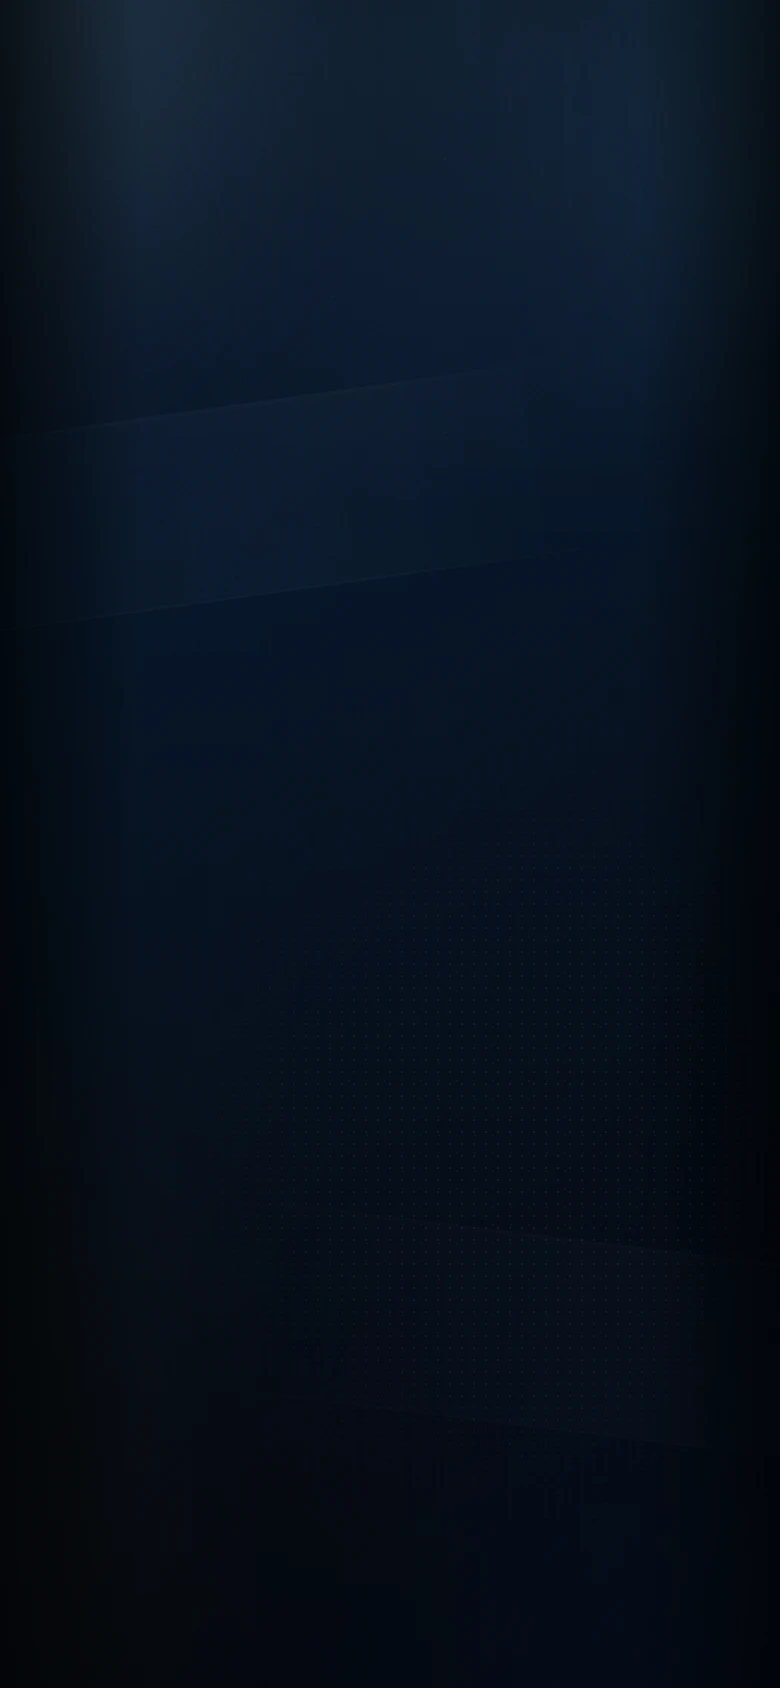
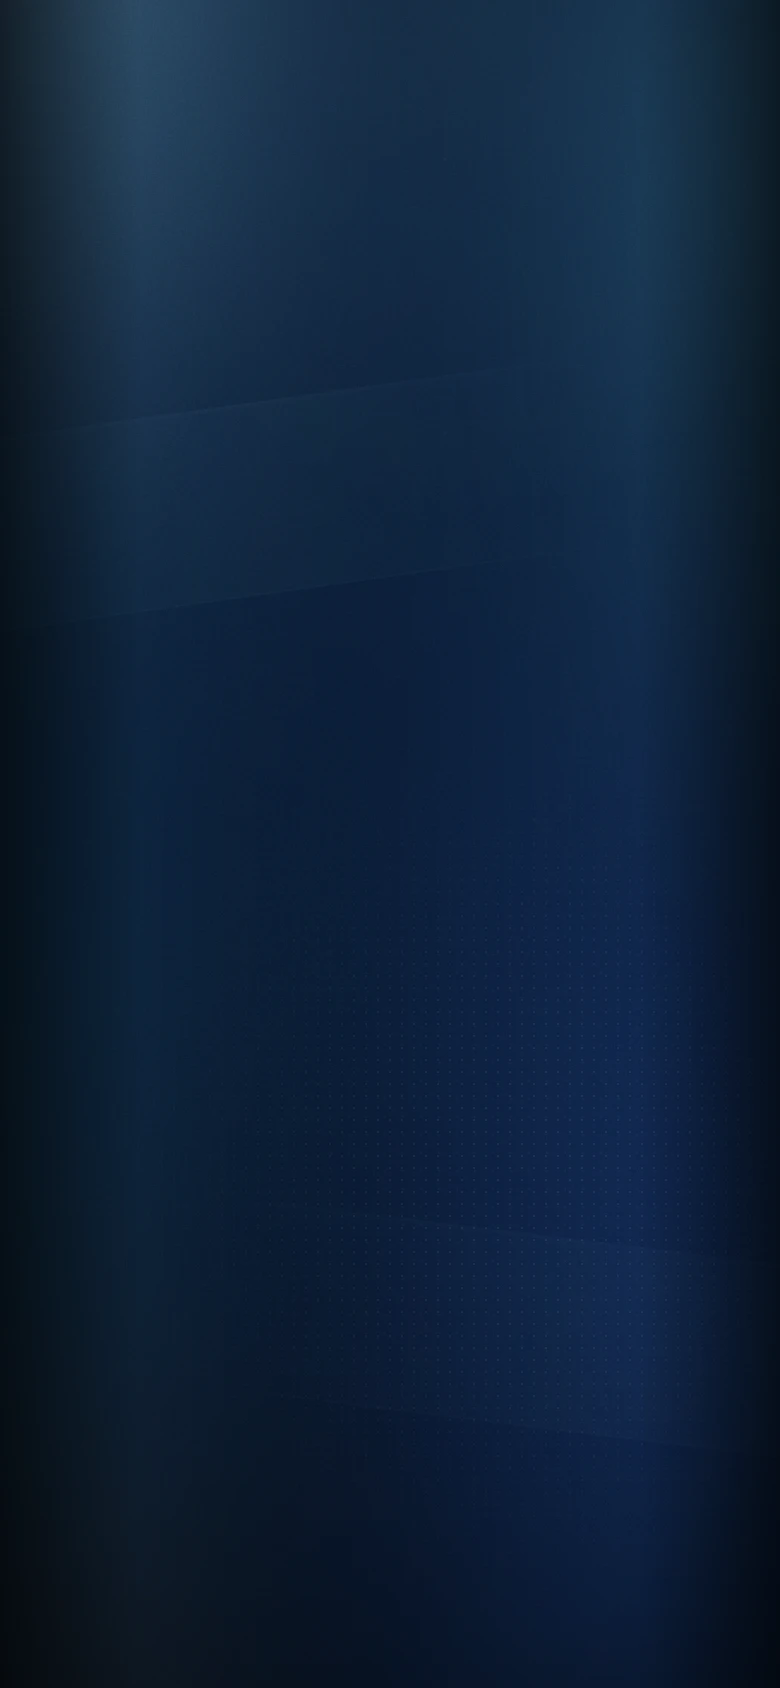
f

diff --git a/components/ui/AnimatedBackground.module.css b/components/ui/AnimatedBackground.module.css
@@ -17,13 +17,14 @@
   position: absolute;
   inset: -18%;
   background-image:
-    radial-gradient(34% 40% at 16% 4%, rgba(140, 216, 255, 0.4), transparent 70%),
-    radial-gradient(27% 33% at 89% 12%, rgba(93, 202, 245, 0.22), transparent 74%),
-    radial-gradient(38% 44% at 74% 94%, rgba(20, 58, 122, 0.26), transparent 76%),
-    radial-gradient(30% 38% at 15% 80%, rgba(245, 181, 71, 0.05), transparent 78%),
-    linear-gradient(158deg, #060a12 0%, #081426 34%, #040910 68%, #020408 100%);
+    radial-gradient(38% 46% at 16% 8%, rgba(140, 216, 255, 0.46), transparent 72%),
+    radial-gradient(32% 40% at 88% 22%, rgba(93, 202, 245, 0.3), transparent 76%),
+    radial-gradient(46% 52% at 78% 68%, rgba(43, 104, 218, 0.32), transparent 78%),
+    radial-gradient(40% 46% at 10% 62%, rgba(58, 175, 232, 0.16), transparent 78%),
+    radial-gradient(34% 40% at 15% 92%, rgba(245, 181, 71, 0.06), transparent 78%),
+    linear-gradient(158deg, #071426 0%, #0a1c34 32%, #061020 64%, #020408 100%);
   filter: blur(60px);
-  opacity: 0.92;
+  opacity: 0.94;
   transition: translate 900ms cubic-bezier(0.23, 1, 0.32, 1);
   animation: field-drift 72s cubic-bezier(0.45, 0, 0.55, 1) infinite;
   will-change: translate, transform;
@@ -169,7 +170,7 @@
 .vignette {
   position: absolute;
   inset: 0;
-  background: radial-gradient(125% 95% at 50% 36%, transparent 36%, rgba(2, 4, 10, 0.78) 100%);
+  background: radial-gradient(135% 110% at 50% 42%, transparent 52%, rgba(2, 4, 10, 0.62) 100%);
 }
 
 @media (prefers-reduced-motion: reduce) {
